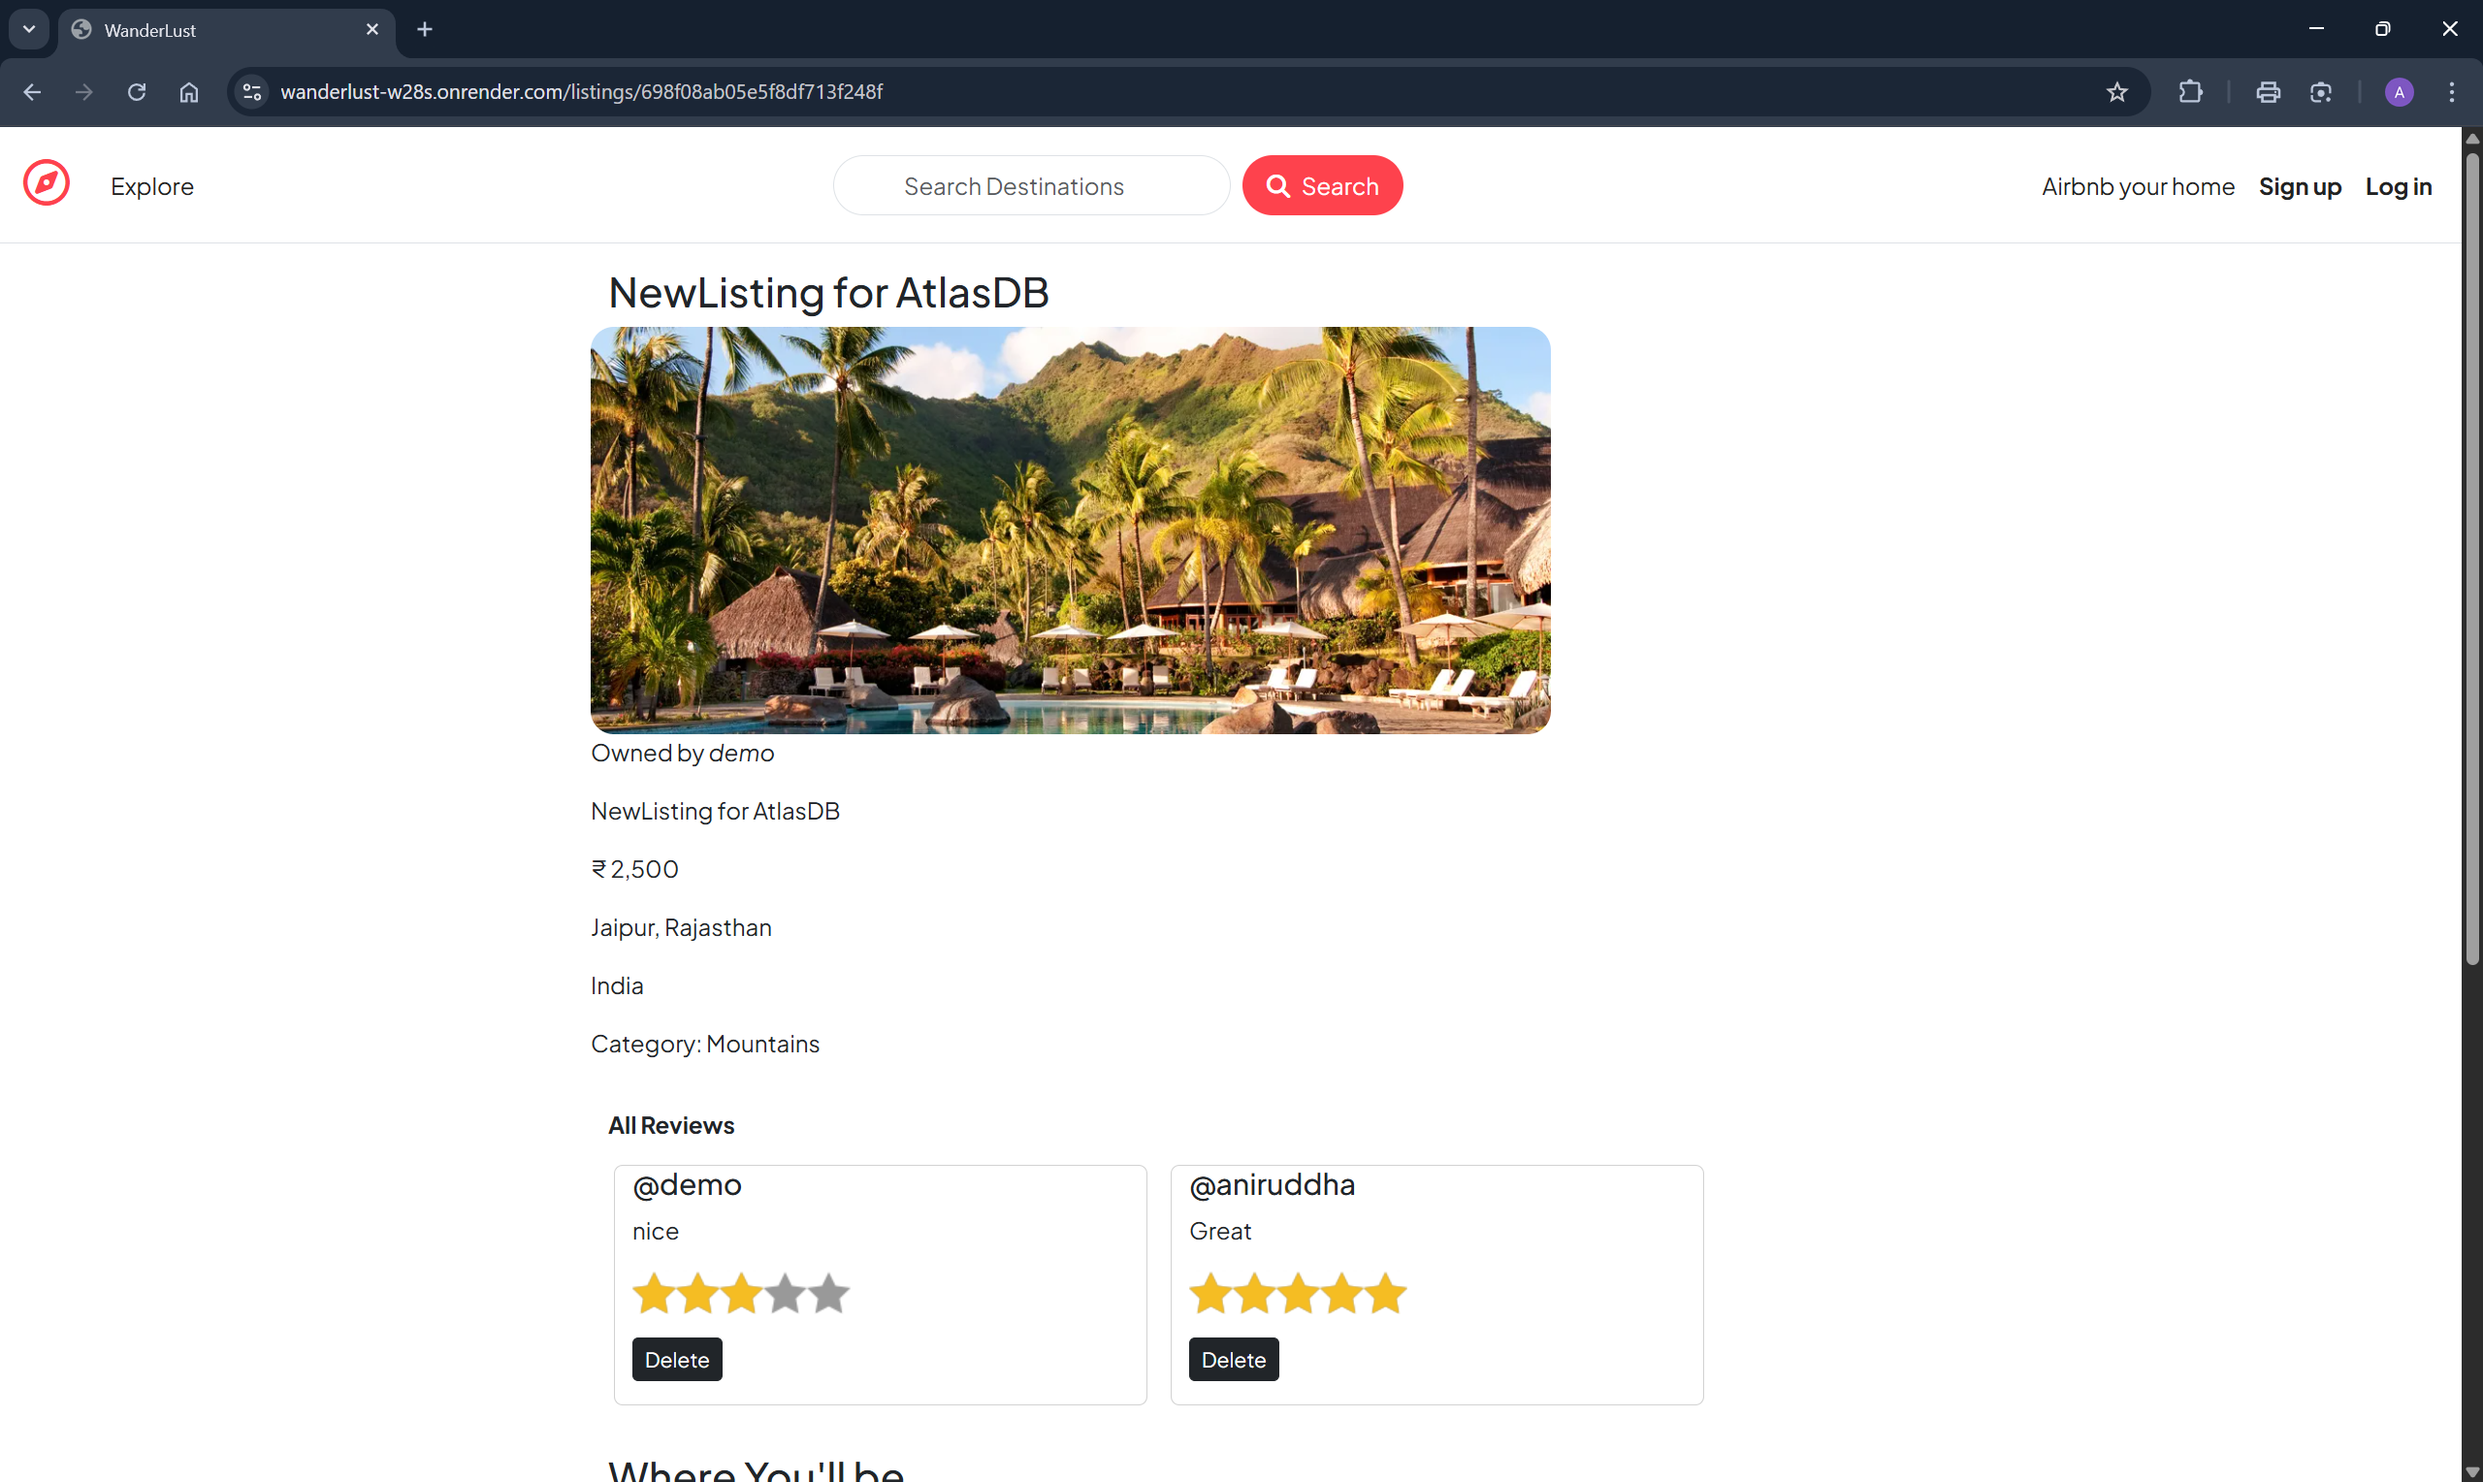
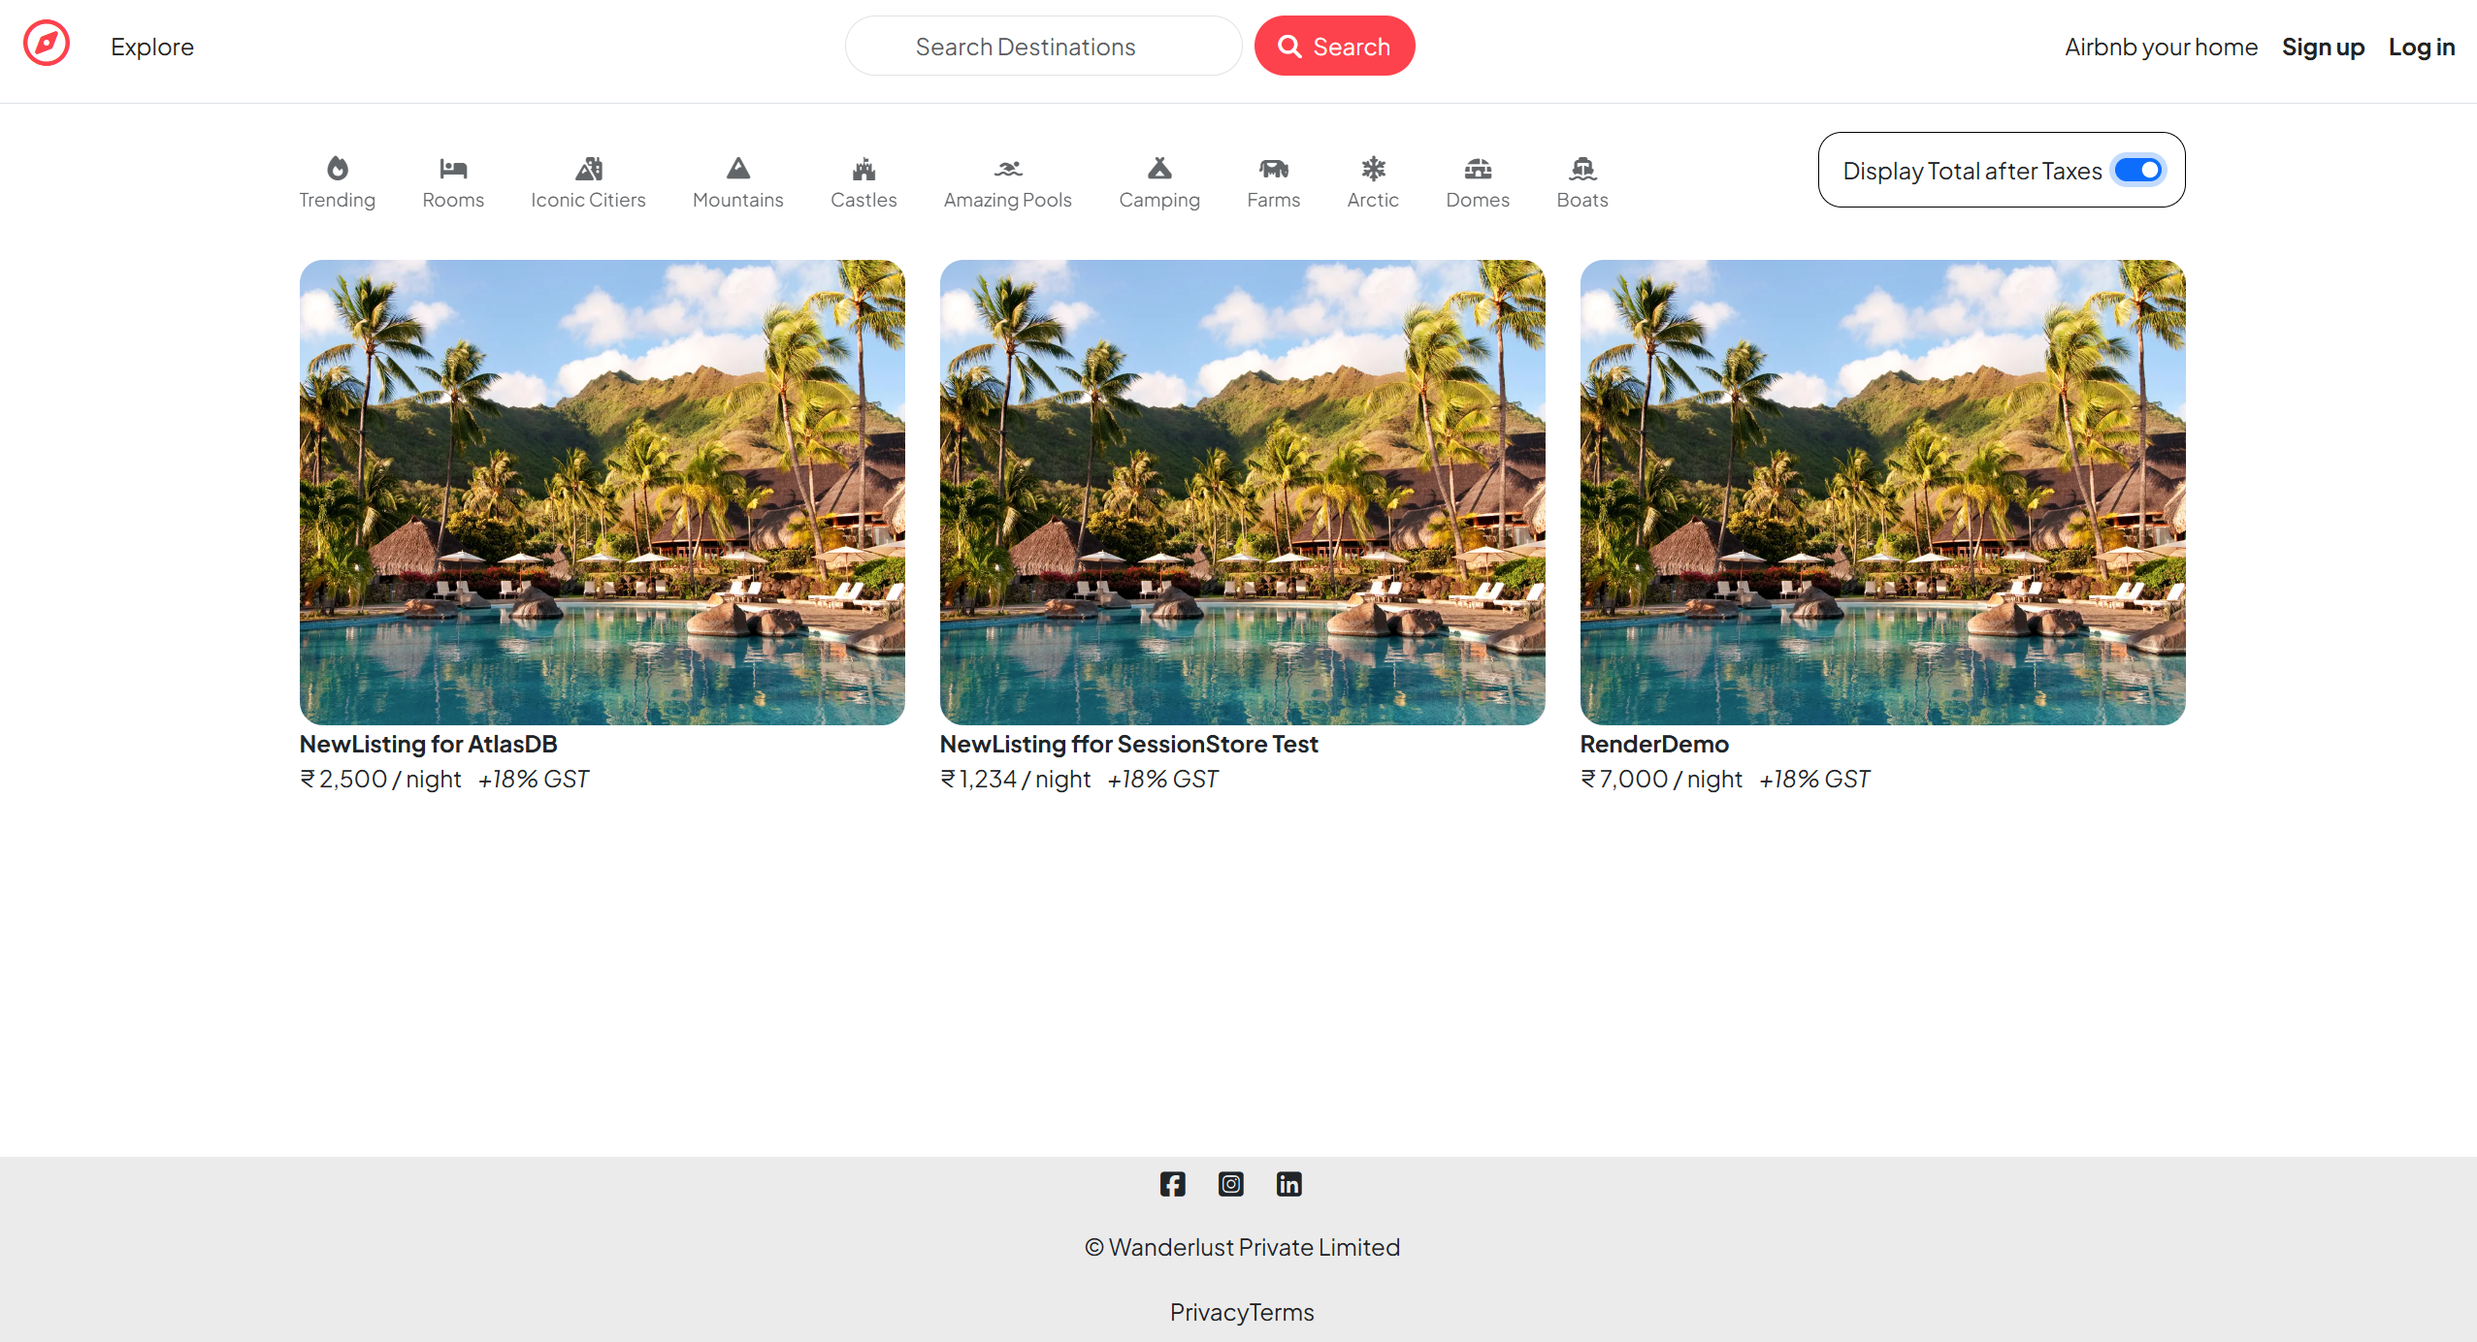
New Projects compented completed

diff --git a/src/landing_page/projects/Projects.js b/src/landing_page/projects/Projects.js
@@ -1,43 +1,65 @@
-import React from "react";
 import ProjectCard from "./ProjectCard";
 
 function Projects() {
   return (
-    <section id="project">
+    <section id="Projects">
       <h2 className="py-5 text-center">Projects</h2>
-      <div className="container d-flex">
-        <div className="row mb-5">
-          <div className="col-2"></div>
-          <div className="col-5">
-            <ProjectCard
-              imageURL={"media/images/image.png"}
-              projectName={"Wanderlust - Airbnb - Clone"}
-              projectDesription={
-                "Wanderlust is a comprehensive web application that allows users to list, explore, and book unique accommodations around the world."
-              }
-              likedinURL={
-                "https://www.linkedin.com/posts/aniruddhasinhjadav_fullstackwebdev-project-mvc-activity-7429860403913891840-VayM?utm_source=share&utm_medium=member_desktop&rcm=ACoAAEJrThABUdUry9hLFvf3NS8JzZPCkkXrQ9s"
-              }
-              githubURL={
-                "https://github.com/Aniruddhajadav/Wanderlust-Airbnb-clone"
-              }
-            />
-          </div>
-          <div className="col-5">
-            <ProjectCard
-              imageURL={"media/images/zerodha.png"}
-              projectName={"Zerodha Clone"}
-              projectDesription={
-                "Zerodha Clone 📈 A full-stack (MERN) web application clone of Zerodha, India’s leading stock brokerage platform and Kite Dashboard"
-              }
-              likedinURL={
-                "https://www.linkedin.com/posts/aniruddhasinhjadav_mern-reactjs-nodejs-activity-7471235852208185344-eIFP?utm_source=share&utm_medium=member_desktop&rcm=ACoAAEJrThABUdUry9hLFvf3NS8JzZPCkkXrQ9s"
-              }
-              githubURL={"https://github.com/Aniruddhajadav/Zerodha-Clone"}
-            />
-          </div>
-        </div>
+      <div className="container">
+        <ProjectCard
+          slides={[
+            "media/images/wanderlust.png",
+            "media/images/image.png",
+            "media/images/wanderlust1.png",
+          ]}
+          title={"Wanderlust"}
+          about={"A Full-Stack Marketplace for Unique Stays"}
+          keyFeatures={[
+            "Secure Authentication: Implemented user signup/login and authorization using Passport.js, ensuring users can only edit or delete their own listings.",
+            "Cloud Image Handling: Integrated Cloudinary for seamless image uploads and storage.",
+            "Interactive Maps: Integrated Mapbox API to provide real-time geocoding and property location visualization.",
+            "Responsive Design: Built a mobile-first UI using Bootstrap to ensure a smooth experience across all devices.",
+          ]}
+          time={"Feb 2026"}
+          techStack={
+            "EJS, Node.js, GitHub, CSS, npm, JavaScript, HTML, Bootstrap, MongoDB, Express.js"
+          }
+          linkedinUrl={"https://lnkd.in/p/dbKKpd6K"}
+          githubUrl={
+            "https://github.com/Aniruddhajadav/Wanderlust-Airbnb-clone"
+          }
+          live={"https://wanderlust-w28s.onrender.com/listings"}
+        />
+        <br></br>
+        <ProjectCard
+          slides={[
+            "media/images/zerodha.png",
+            "media/images/zerodha1.png",
+            "media/images/zerodhaKite1.png",
+            "media/images/zerodhaKite2.png",
+          ]}
+          title={"Zerodha Clone"}
+          about={
+            "A full-stack (MERN) web application clone of Zerodha, India’s leading stock brokerage platform and Kite Dashboard."
+          }
+          keyFeatures={[
+            "1. Marketing & Landing Platform: Replicates Zerodha's clean UI featuring its core trust statistics, pricing highlights, ecosystem structure, and Varsity education portal.",
+            "2. Kite User Dashboard:",
+            "Buy/Sell Action Windows: Popup modals enabling simulation of instant market orders.",
+            "Data Visualizations: Dynamic graphs and interactive doughnut/vertical charts powered by Chart.js for visually evaluating asset distribution and portfolio balance.",
+            <a href="https://zcdashb.netlify.app" target="_blank">
+              Kite Dashboard Demo
+            </a>,
+          ]}
+          time={"May-June 2026"}
+          techStack={
+            "React.js, Bootstrap, Material-UI, Chart.js, Node.js, Express.js, JWT, Bcrypt, MongoDB & Mongoose"
+          }
+          linkedinUrl={"https://lnkd.in/p/dVQPmJy2"}
+          githubUrl={"https://github.com/Aniruddhajadav/Zerodha-Clone"}
+          live={"https://zerodha-clone-oo65.onrender.com"}
+        />
       </div>
+      <br />
       <hr />
     </section>
   );

diff --git a/src/landing_page/projects/ProjectCard.js b/src/landing_page/projects/ProjectCard.js
@@ -1,55 +1,82 @@
-import Card from "@mui/material/Card";
-import CardContent from "@mui/material/CardContent";
-import CardMedia from "@mui/material/CardMedia";
-import Typography from "@mui/material/Typography";
-import Button from "@mui/material/Button";
-import CardActionArea from "@mui/material/CardActionArea";
-import CardActions from "@mui/material/CardActions";
-
-import GitHubIcon from "@mui/icons-material/GitHub";
-import LinkedInIcon from "@mui/icons-material/LinkedIn";
+import React, { useState, useEffect } from "react";
 
 export default function ProjectCard({
-  imageURL,
-  projectName,
-  projectDesription,
-  likedinURL,
-  githubURL,
+  title,
+  about,
+  time,
+  techStack,
+  keyFeatures,
+  slides = [],
+  linkedinUrl,
+  githubUrl,
+  live,
 }) {
+  const [slideIndex, setSlideIndex] = useState(0);
+
+  useEffect(() => {
+    const slideTimer = setInterval(() => {
+      setSlideIndex((prevIndex) => (prevIndex + 1) % slides.length);
+    }, 5000);
+    return () => clearInterval(slideTimer);
+  }, [slides.length]);
+
   return (
-    <Card sx={{ maxWidth: 500 }}>
-      <div className="border">
-        <CardActionArea>
-          <CardMedia
-            component="img"
-            height="245"
-            image={imageURL}
-            alt="Wanderlust"
-          />
-          <CardContent>
-            <Typography gutterBottom variant="h5" component="div">
-              {projectName}
-            </Typography>
-            <Typography variant="body2" sx={{ color: "text.secondary" }}>
-              {projectDesription}
-            </Typography>
-          </CardContent>
-        </CardActionArea>
-        <CardActions>
-          <Button size="small" color="primary">
-            <a href={likedinURL} target="_blank">
-              <LinkedInIcon />
-              Likedin
-            </a>
-          </Button>
-          <Button size="small" color="primary">
-            <a href={githubURL} target="_blank">
-              <GitHubIcon />
-              Github
-            </a>
-          </Button>
-        </CardActions>
+    <div className="row border">
+      <div className="col-6 border slideshow-container">
+        {slides.map((slide, index) => (
+          <div
+            className="fade"
+            key={index}
+            style={{
+              display: index === slideIndex ? "block" : "none",
+            }}
+          >
+            <img
+              src={slide}
+              alt="Project thumbnail"
+              style={{ height: "100%", width: "100%" }}
+            ></img>
+          </div>
+        ))}
       </div>
-    </Card>
+      <div className="col-6 border">
+        <div className="row border">
+          <h1 className="px-4">{title}</h1>
+          <p className="px-4">{about}</p>
+          <ul className="px-3">
+            {keyFeatures.map((feature, index) => (
+              <li key={index} style={{ padding: "5px" }}>
+                {feature}
+              </li>
+            ))}
+          </ul>
+          <p className="px-4">{time}</p>
+        </div>
+        <div className="row border">
+          <span className="px-4">{techStack}</span>
+        </div>
+        <div className="row border">
+          <ul class="list-group list-group-horizontal">
+            <li class="list-group-item">
+              <a href={linkedinUrl} target="_blank">
+                LinkedIn
+              </a>
+            </li>
+            <li class="list-group-item">
+              {" "}
+              <a href={githubUrl} target="_blank">
+                GitHub
+              </a>
+            </li>
+            <li class="list-group-item">
+              {" "}
+              <a href={live} target="_blank">
+                Live
+              </a>
+            </li>
+          </ul>
+        </div>
+      </div>
+    </div>
   );
 }

diff --git a/src/index.css b/src/index.css
@@ -37,3 +37,17 @@ a {
 .footer-links span a:hover {
   text-decoration: underline;
 }
+
+.fade {
+  animation-name: fade;
+  animation-duration: 5s;
+}
+
+@keyframes fade {
+  from {
+    opacity: 0.8;
+  }
+  to {
+    opacity: 1;
+  }
+}
